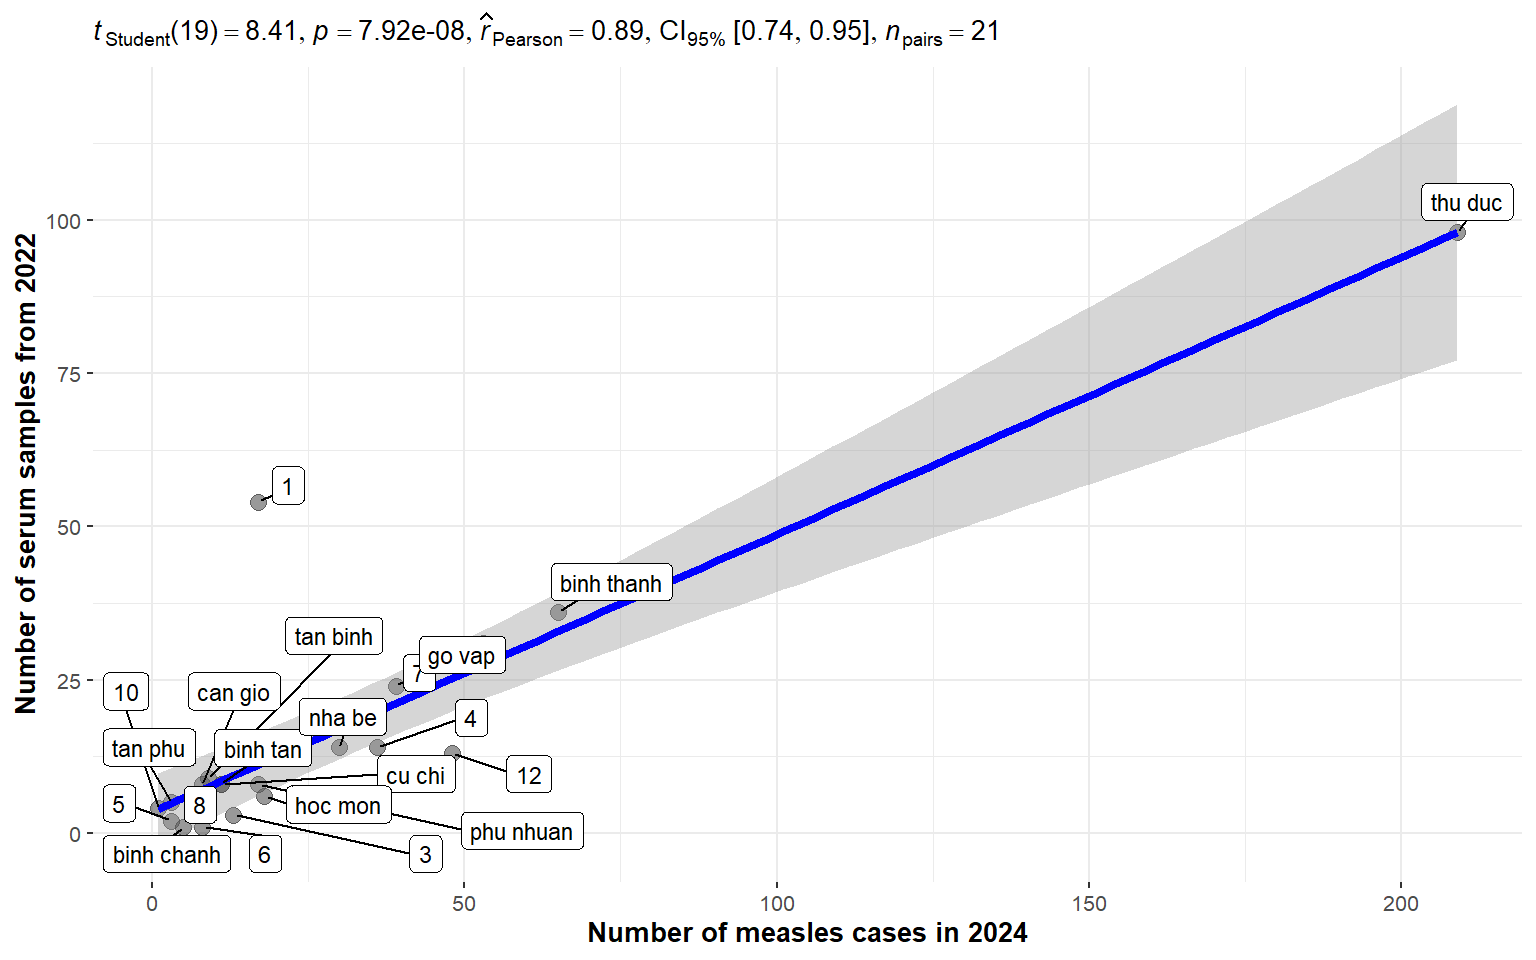
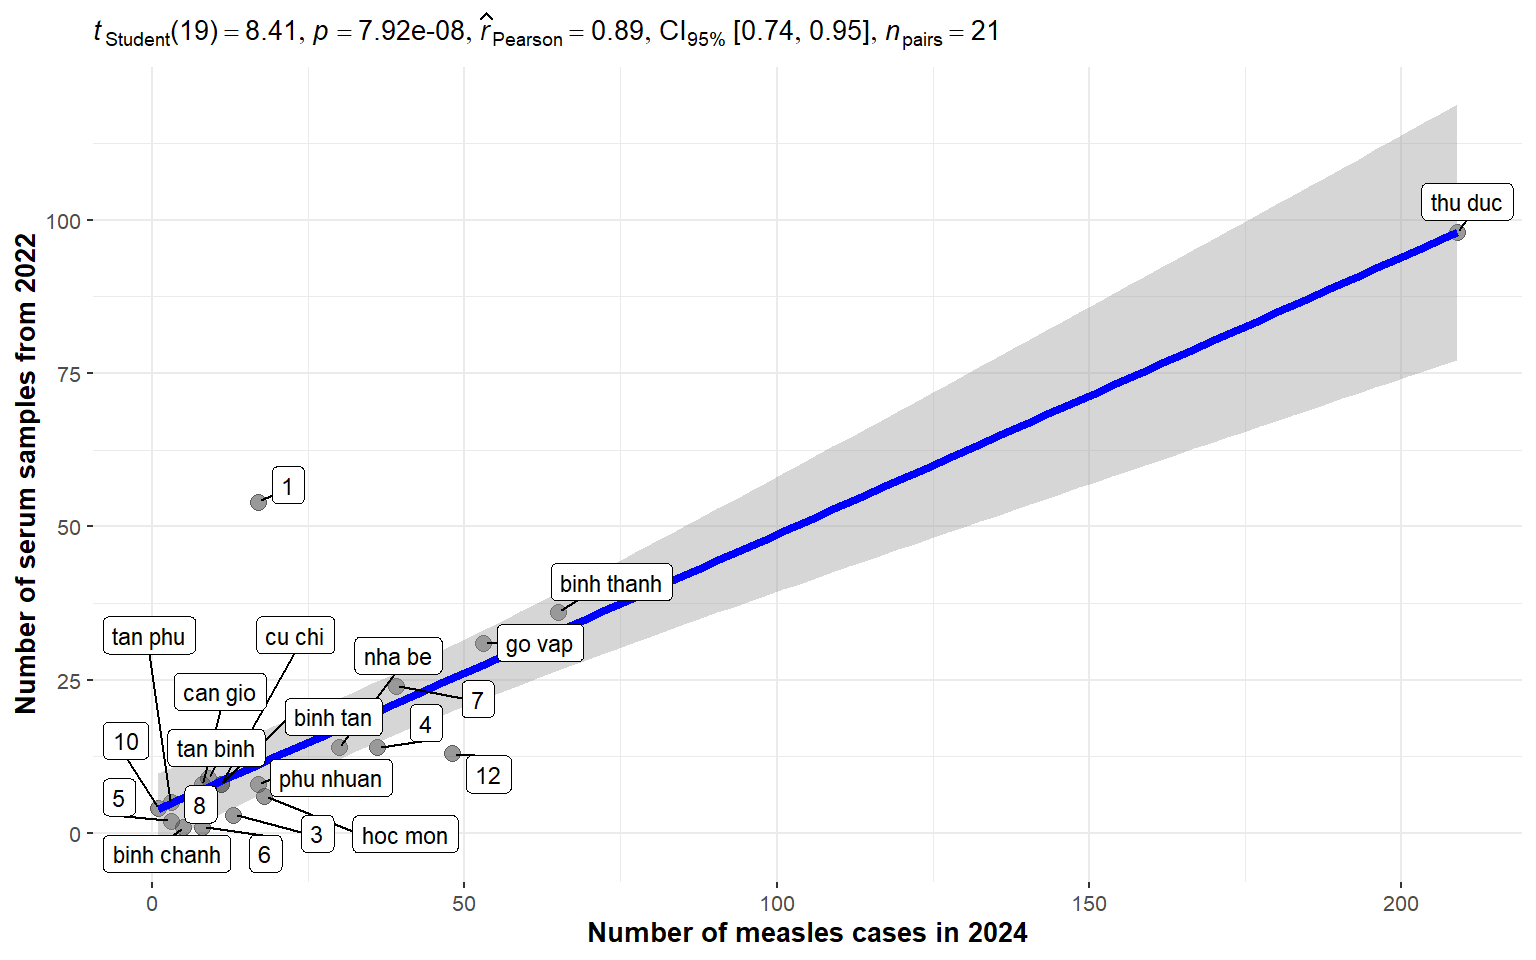
change levels of 18-19 figure

Changed region(s): [[0.0625, 0.625, 0.4062, 0.9062], [0.0625, 0.6562, 0.125, 0.6875]]

diff --git a/index.html b/index.html
@@ -1108,9 +1108,9 @@ Note
 <div class="sourceCode cell-code" id="cb15"><pre class="sourceCode r code-with-copy"><code class="sourceCode r"><span id="cb15-1"><a href="#cb15-1" aria-hidden="true" tabindex="-1"></a>cases_hcm_1819<span class="sc">$</span>onset_month <span class="ot">&lt;-</span> <span class="fu">format</span>(cases_hcm_1819<span class="sc">$</span>admission, <span class="at">format =</span> <span class="st">"%b-%Y"</span>)</span>
 <span id="cb15-2"><a href="#cb15-2" aria-hidden="true" tabindex="-1"></a></span>
 <span id="cb15-3"><a href="#cb15-3" aria-hidden="true" tabindex="-1"></a>cases_hcm_1819<span class="sc">$</span>onset_month <span class="ot">&lt;-</span> <span class="fu">factor</span>(cases_hcm_1819<span class="sc">$</span>onset_month, </span>
-<span id="cb15-4"><a href="#cb15-4" aria-hidden="true" tabindex="-1"></a>                               <span class="at">levels =</span> <span class="fu">paste</span>(month.abb[<span class="dv">1</span><span class="sc">:</span><span class="dv">12</span>], </span>
-<span id="cb15-5"><a href="#cb15-5" aria-hidden="true" tabindex="-1"></a>                                              cases_hcm_1819<span class="sc">$</span>adm_year, </span>
-<span id="cb15-6"><a href="#cb15-6" aria-hidden="true" tabindex="-1"></a>                                              <span class="at">sep =</span> <span class="st">"-"</span>) <span class="sc">%&gt;%</span> <span class="fu">unique</span>())</span>
+<span id="cb15-4"><a href="#cb15-4" aria-hidden="true" tabindex="-1"></a>                               <span class="at">levels =</span> <span class="fu">paste</span>(<span class="fu">rep</span>(month.abb[<span class="dv">1</span><span class="sc">:</span><span class="dv">12</span>], <span class="at">times =</span> <span class="dv">2</span>), </span>
+<span id="cb15-5"><a href="#cb15-5" aria-hidden="true" tabindex="-1"></a>                                              <span class="fu">rep</span>(<span class="fu">c</span>(<span class="dv">2018</span>, <span class="dv">2019</span>), <span class="at">each =</span> <span class="dv">12</span>), </span>
+<span id="cb15-6"><a href="#cb15-6" aria-hidden="true" tabindex="-1"></a>                                              <span class="at">sep =</span> <span class="st">"-"</span>) )</span>
 <span id="cb15-7"><a href="#cb15-7" aria-hidden="true" tabindex="-1"></a></span>
 <span id="cb15-8"><a href="#cb15-8" aria-hidden="true" tabindex="-1"></a>df_plot2 <span class="ot">&lt;-</span> cases_hcm_1819 <span class="sc">|&gt;</span> </span>
 <span id="cb15-9"><a href="#cb15-9" aria-hidden="true" tabindex="-1"></a>  <span class="fu">mutate</span>(<span class="at">district =</span> district <span class="sc">%&gt;%</span> </span>
